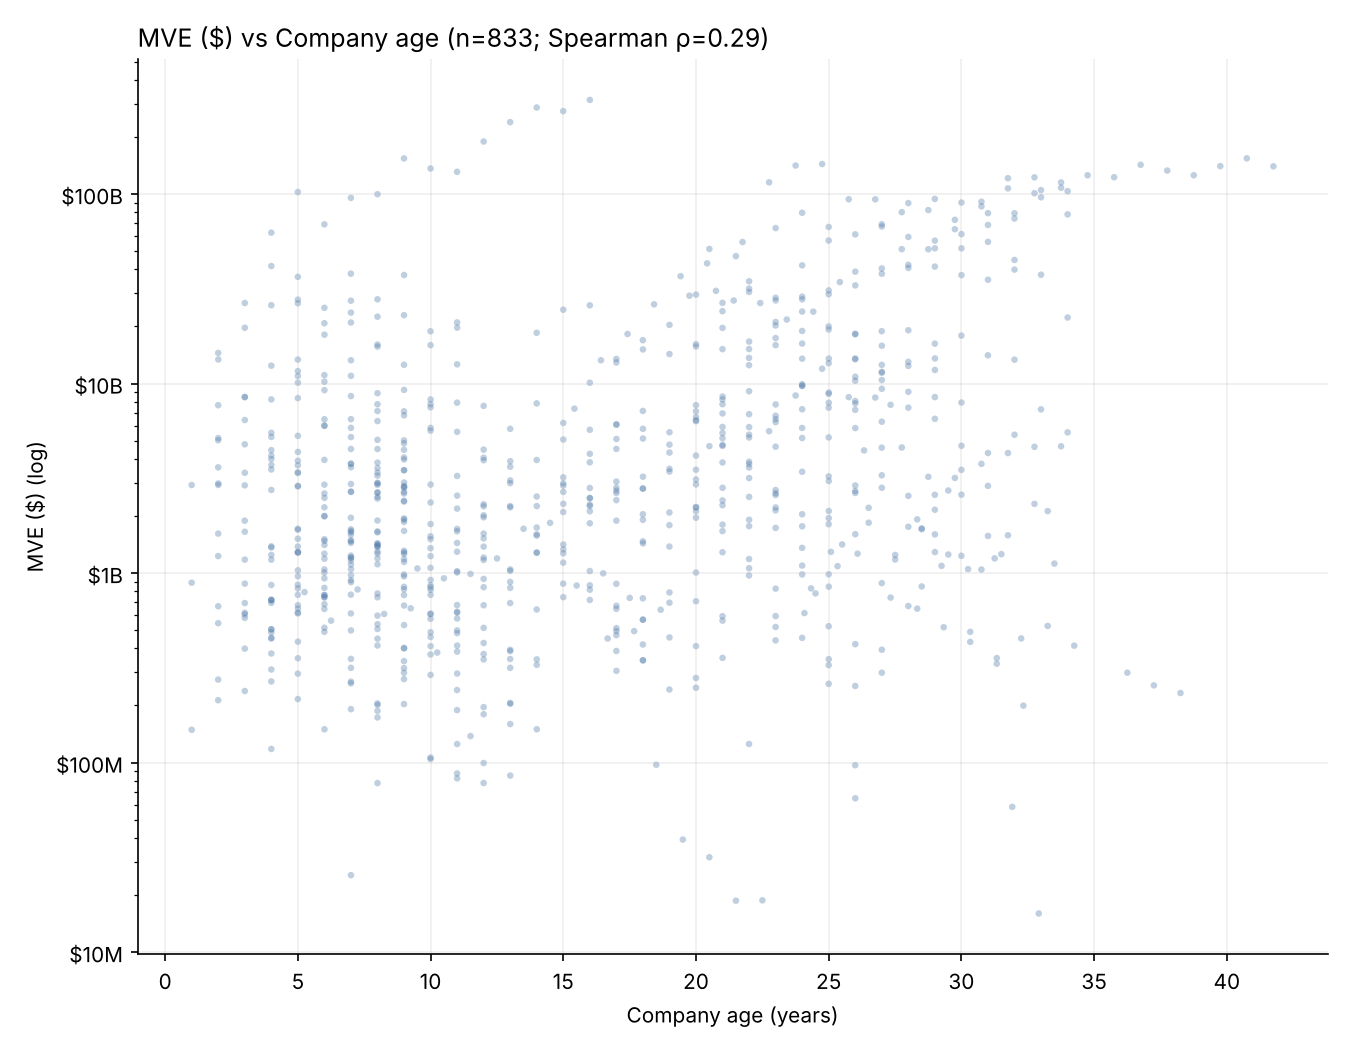
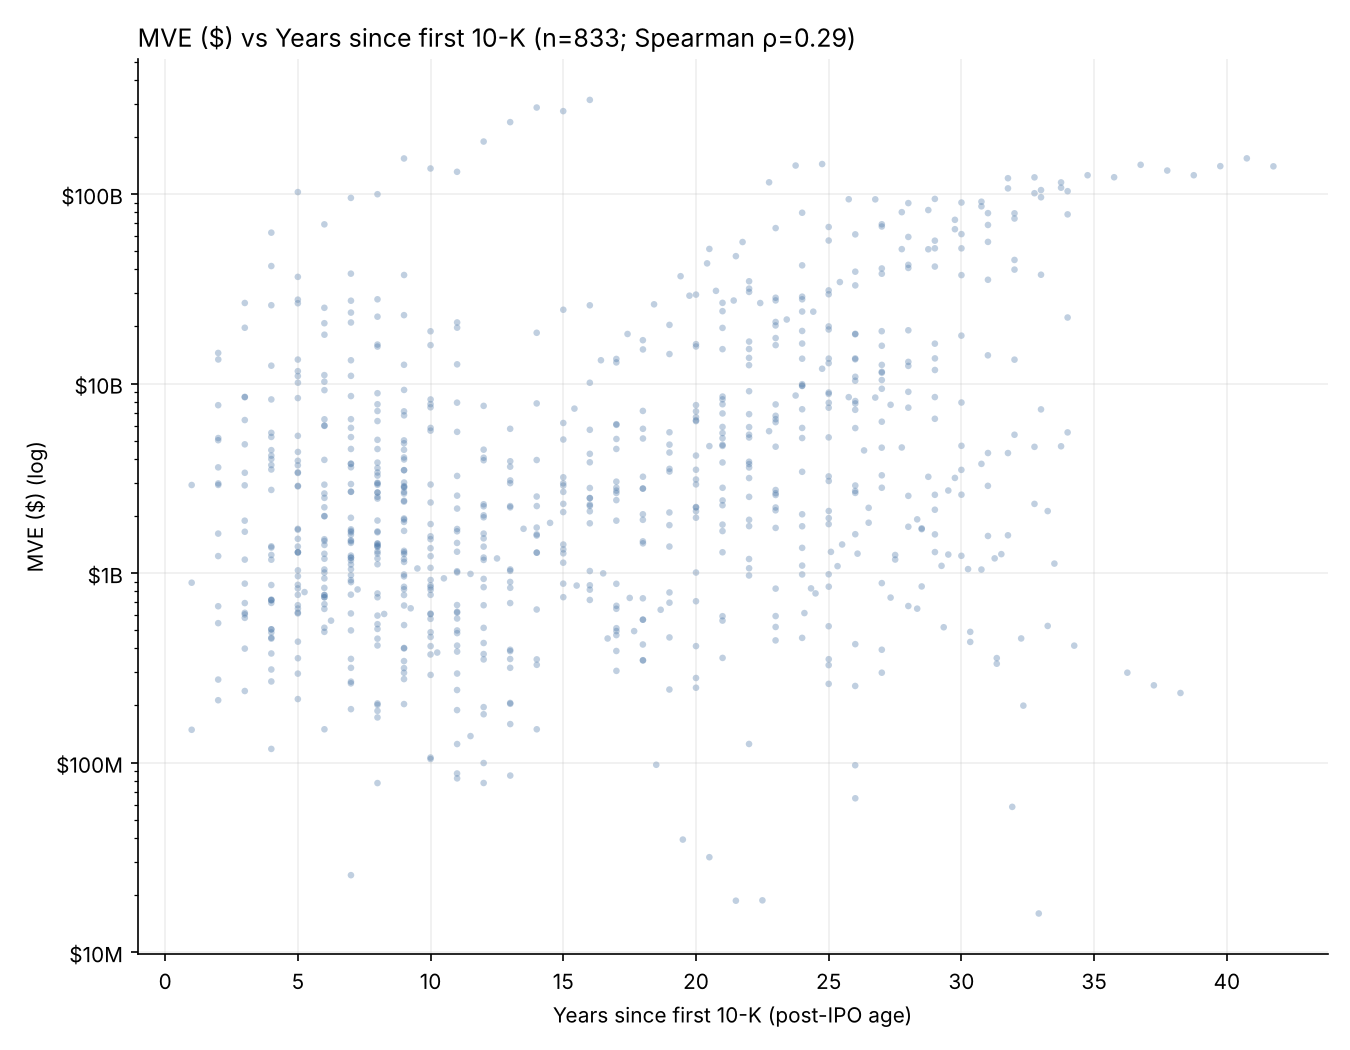
Label age as years since first 10-K (post-IPO age)
Claude-Session: https://claude.ai/code/session_017of5yU3bfrpCMXsVcsfLUs

Changed region(s): [[0.1867, 0.0305, 0.6222, 0.061], [0.4044, 0.9448, 0.6844, 0.9752]]

diff --git a/src/make_charts.py b/src/make_charts.py
@@ -10,7 +10,7 @@ Outputs:
   dot_de_vs_xrd.png     - debt/equity vs R&D/revenue scatter
   dot_fcfni_vs_xrd.png  - FCF/net income vs R&D/revenue scatter
   dot_fcfni_vs_de.png   - FCF/net income vs debt/equity scatter
-  dot_mve_vs_age.png    - MVE vs company age (years) scatter
+  dot_mve_vs_age.png    - MVE vs years since first 10-K (post-IPO age) scatter
                           (all dot plots print Spearman/Pearson correlations)
 """
 import sys
@@ -42,7 +42,7 @@ if WINSORIZE:
         d[col] = d[col].clip(lo, hi)
         print(f"winsorized {col}: [{lo:.6g}, {hi:.6g}]  ({n_lo} raised, {n_hi} lowered)")
 
-d["age_years"] = d["age_days"] / 365.25
+d["age_years"] = d["age_days"] / 365.25  # age_days = days since the firm's first filed 10-K
 d["mve"] = d["mve"] * 1e6  # source MVE is in $ millions; ratios are unitless
 
 
@@ -114,4 +114,4 @@ dot_plot("debt_equity", "Debt / equity", "mve", "MVE ($, log)", "log", mfmt, "do
 dot_plot("debt_equity", "Debt / equity", "xrd_revt", "R&D / revenue", "linear", None, "dot_de_vs_xrd.png")
 dot_plot("FCF_ni", "FCF / net income", "xrd_revt", "R&D / revenue", "linear", None, "dot_fcfni_vs_xrd.png")
 dot_plot("FCF_ni", "FCF / net income", "debt_equity", "Debt / equity (symlog)", "symlog", None, "dot_fcfni_vs_de.png")
-dot_plot("mve", "MVE ($)", "age_years", "Company age (years)", "linear", None, "dot_mve_vs_age.png", yscale="log", yfmt=mfmt)
+dot_plot("mve", "MVE ($)", "age_years", "Years since first 10-K (post-IPO age)", "linear", None, "dot_mve_vs_age.png", yscale="log", yfmt=mfmt)

diff --git a/README.md b/README.md
@@ -1,6 +1,6 @@
 # FSA ratio charts
 
-Line graphs (per-company grey lines + median) of MVE, R&D/revenue and debt/equity, and dot plots of debt/equity vs MVE, debt/equity vs R&D/revenue, FCF/net income vs R&D/revenue, FCF/net income vs debt/equity, and MVE vs company age.
+Line graphs (per-company grey lines + median) of MVE, R&D/revenue and debt/equity, and dot plots of debt/equity vs MVE, debt/equity vs R&D/revenue, FCF/net income vs R&D/revenue, FCF/net income vs debt/equity, and MVE vs post-IPO age.
 
 ## Reproduce
 
@@ -13,6 +13,6 @@ Optional arguments: `python src/make_charts.py <input.xlsx> <output_dir>`.
 
 ## Notes
 
-- `data/ValuesFSARatios.xlsx` is the input (833 company-years, 201 companies, revenue ≥ $100M; includes a `revt` revenue column in $ millions, not used by the charts; `FCF_ni` is free cash flow / net income). Its figures are in $ millions; MVE is converted to dollars for display. The R&D/revenue and debt/equity ratios are unitless and plotted as-is.
+- `data/ValuesFSARatios.xlsx` is the input (833 company-years, 201 companies, revenue ≥ $100M; includes a `revt` revenue column in $ millions, not used by the charts; `age_days` is days since the firm's first filed 10-K (post-IPO age), converted to years for plotting; `FCF_ni` is free cash flow / net income). Its figures are in $ millions; MVE is converted to dollars for display. The R&D/revenue and debt/equity ratios are unitless and plotted as-is.
 - No winsorizing or outlier removal by default. To winsorize MVE, R&D/revenue and debt/equity at the pooled 1st/99th percentile, set `WINSORIZE = True` in `src/make_charts.py` (cutoffs are printed; titles are tagged). MVE uses a log axis, debt/equity a symmetric-log axis, and R&D/revenue a linear axis.
 - Correlations (Spearman and Pearson) are printed to the console and the Spearman value is in each dot plot's title.
